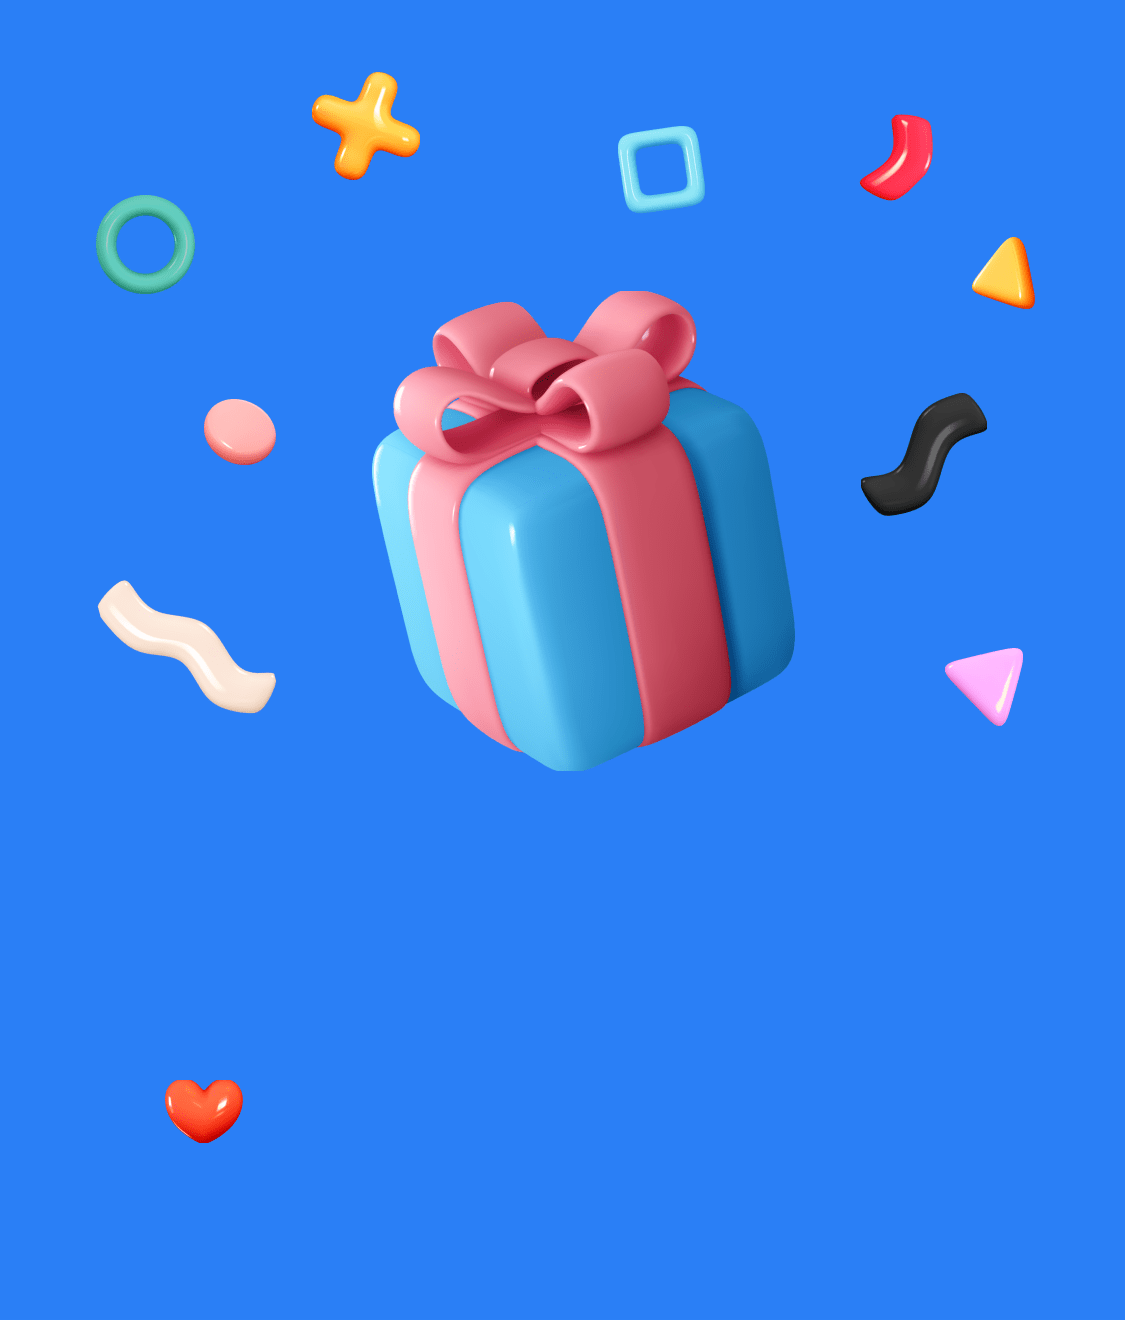
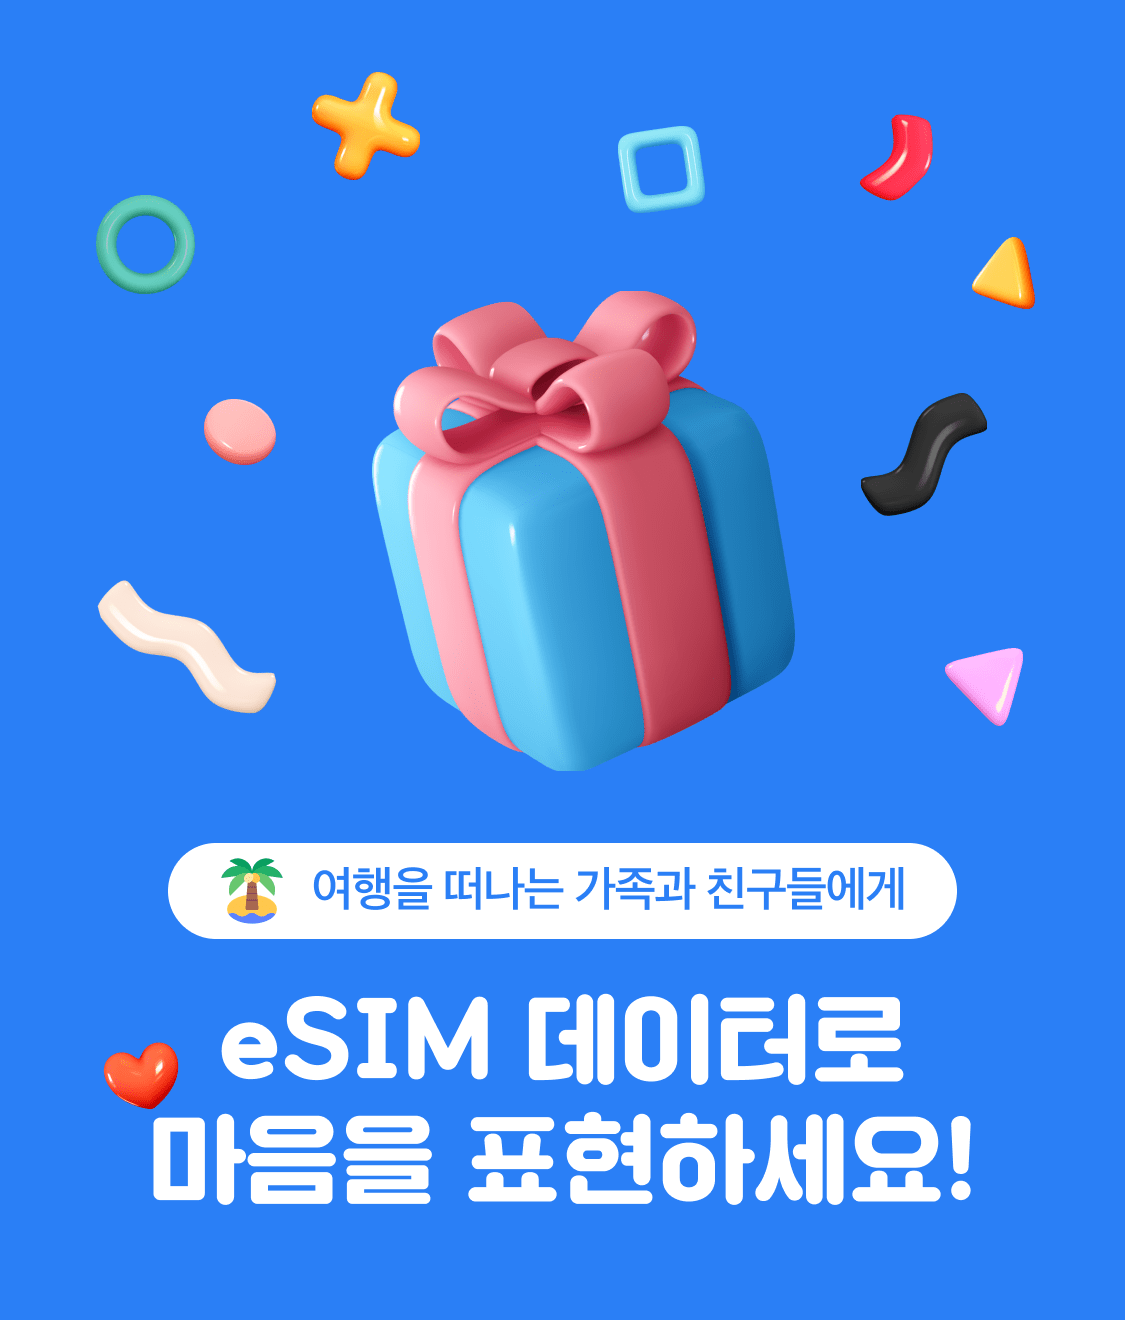
선물하기 가이드 화면 디자인 적용

Changed region(s): [[0.0933, 0.7455, 0.8711, 0.9318], [0.1244, 0.6212, 0.8711, 0.7144]]

diff --git a/screens/GiftGuideScreen.tsx b/screens/GiftGuideScreen.tsx
@@ -13,7 +13,9 @@ import {
   ScrollView,
   StyleSheet,
   View,
+  ViewStyle,
 } from 'react-native';
+import LinearGradient from 'react-native-linear-gradient';
 import AppBackButton from '@/components/AppBackButton';
 import {colors} from '@/constants/Colors';
 import {HomeStackParamList} from '@/navigation/navigation';
@@ -27,7 +29,6 @@ import AppTextJoin from '@/components/AppTextJoin';
 import {API} from '@/redux/api';
 import AppStyledText from '@/components/AppStyledText';
 import ScreenHeader from '@/components/ScreenHeader';
-import LinearGradient from 'react-native-linear-gradient';
 
 const {width} = Dimensions.get('window');
 
@@ -59,25 +60,25 @@ const styles = StyleSheet.create({
     // backgroundColor: colors.black,
   },
   text: {
-    ...appStyles.semiBold16Text,
+    ...appStyles.semiBold18Text,
     top: 10,
   },
 });
 
 type Step0Props = {
   step: string;
-  marginTop: number;
+  style?: ViewStyle;
 };
 const Step0: React.FC<PropsWithChildren<Step0Props>> = ({
   step,
-  marginTop,
   children,
+  style,
 }) => (
-  <View style={{alignItems: 'center'}}>
-    <View style={[styles.step, {marginTop}]}>
+  <View style={[{alignItems: 'center'}, style]}>
+    <View style={styles.step}>
       <AppText
         style={[
-          appStyles.bold16Text,
+          appStyles.normal16Text,
           {
             flex: 1,
             color: 'white',
@@ -122,7 +123,7 @@ const GiftGuideScreen: React.FC<GiftGuideProps> = ({navigation}) => {
         textStyle={styles.text}
         data={formatText('b', {
           text: i18n.t(key),
-          textStyle: {...appStyles.bold16Text, color: colors.clearBlue},
+          textStyle: {...appStyles.bold18Text, color: colors.clearBlue},
         })}
       />
     ),
@@ -141,7 +142,7 @@ const GiftGuideScreen: React.FC<GiftGuideProps> = ({navigation}) => {
         <View style={styles.whiteContainer}>
           <View key="top">
             <AppIcon name="giftGuideTop" size={[width, (width * 440) / 375]} />
-            <AppText
+            {/* <AppText
               style={{
                 ...appStyles.bold16Text,
                 color: 'white',
@@ -164,7 +165,7 @@ const GiftGuideScreen: React.FC<GiftGuideProps> = ({navigation}) => {
                 textAlign: 'center',
               }}>
               {i18n.t('gift:guide1-1')}
-            </AppText>
+            </AppText> */}
           </View>
           <View style={{alignItems: 'center'}}>
             <AppText
@@ -175,18 +176,24 @@ const GiftGuideScreen: React.FC<GiftGuideProps> = ({navigation}) => {
               {i18n.t('gift:guide2-title')}
             </AppText>
           </View>
-          <Step key="1" step="1" marginTop={36}>
+          <Step key="1" step="1" style={{paddingVertical: 32}}>
             {renderText('gift:guide2-1')}
           </Step>
-          <Step key="2" step="2" marginTop={62}>
+          <Step
+            key="2"
+            step="2"
+            style={{backgroundColor: colors.giftGuideBg, paddingVertical: 32}}>
             {renderText('gift:guide2-2-1')}
             {renderText('gift:guide2-2-2')}
           </Step>
-          <Step key="3" step="3" marginTop={62}>
+          <Step key="3" step="3" style={{paddingVertical: 32}}>
             {renderText('gift:guide2-3-1')}
             {renderText('gift:guide2-3-2')}
           </Step>
-          <Step key="4" step="4" marginTop={62}>
+          <Step
+            key="4"
+            step="4"
+            style={{backgroundColor: colors.giftGuideBg, paddingVertical: 32}}>
             {renderText('gift:guide2-4-1')}
             {renderText('gift:guide2-4-2')}
           </Step>

diff --git a/constants/Colors.ts b/constants/Colors.ts
@@ -88,9 +88,9 @@ export const colors = {
   menuBorder: 'rgba(60, 60, 67, 0.36)',
   clearBlue8: 'rgba(42, 127, 246, 0.08)',
   naverGreen: '#03C731',
-  black92: 'rgba(44, 44, 44, 0.92)',
   lightYellow2: '#FFD357',
   giftbg1: '#ffd7b6',
   giftbg2: '#baaaff',
   giftbg3: '#ff8b5a',
+  giftGuideBg: '#f2f8f9',
 };
